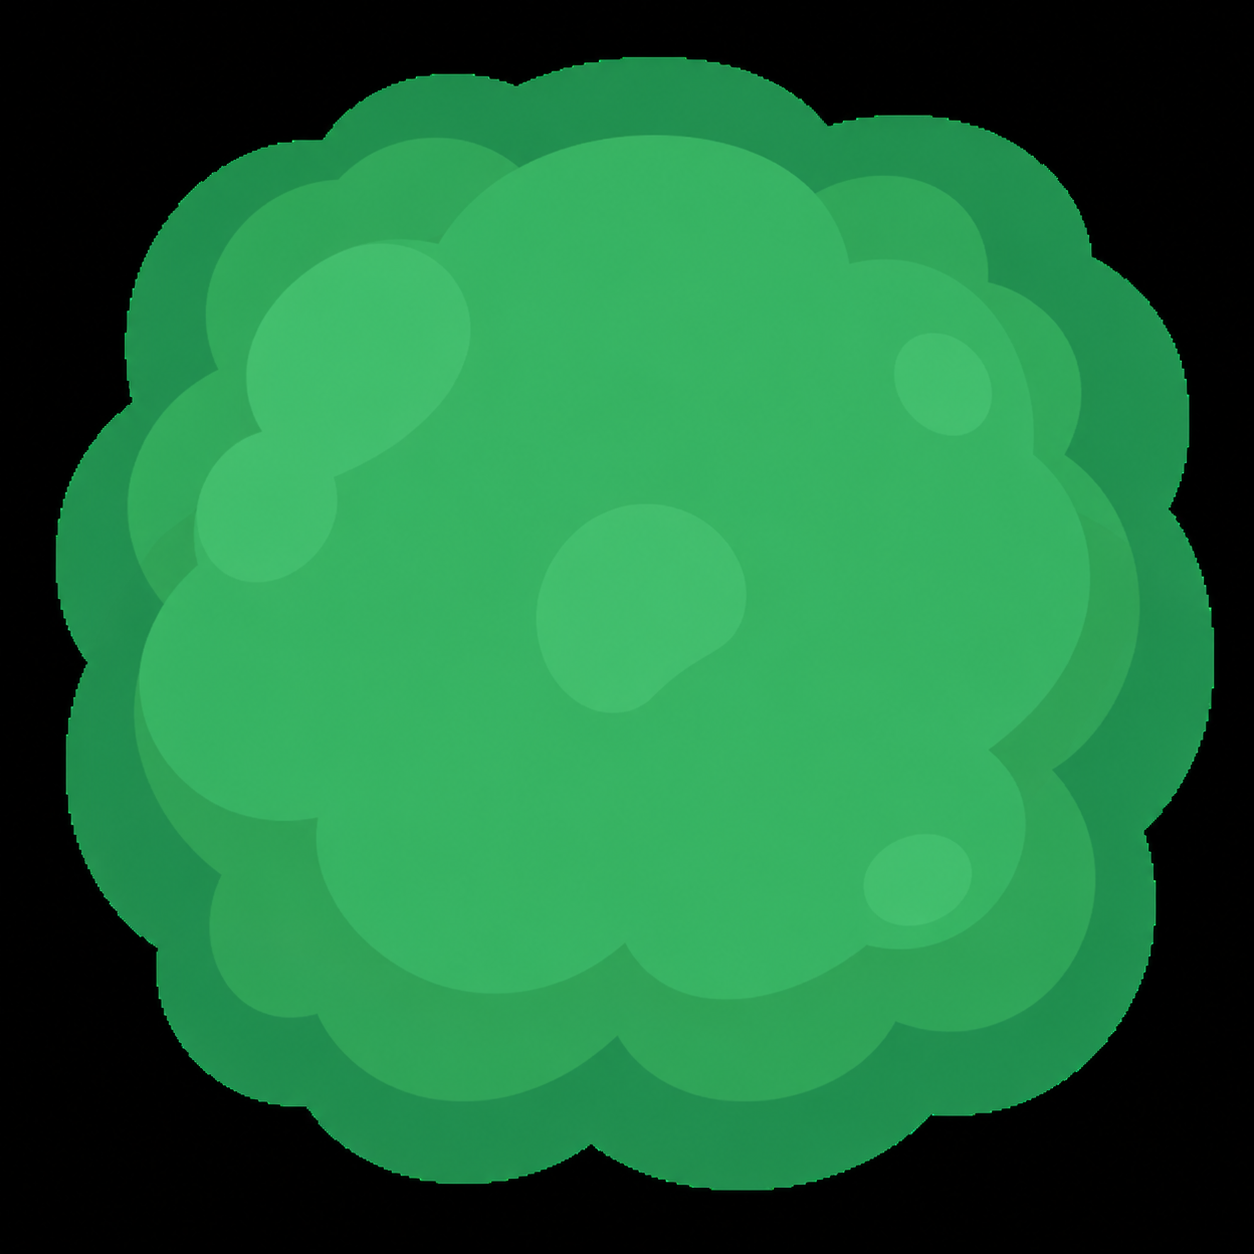
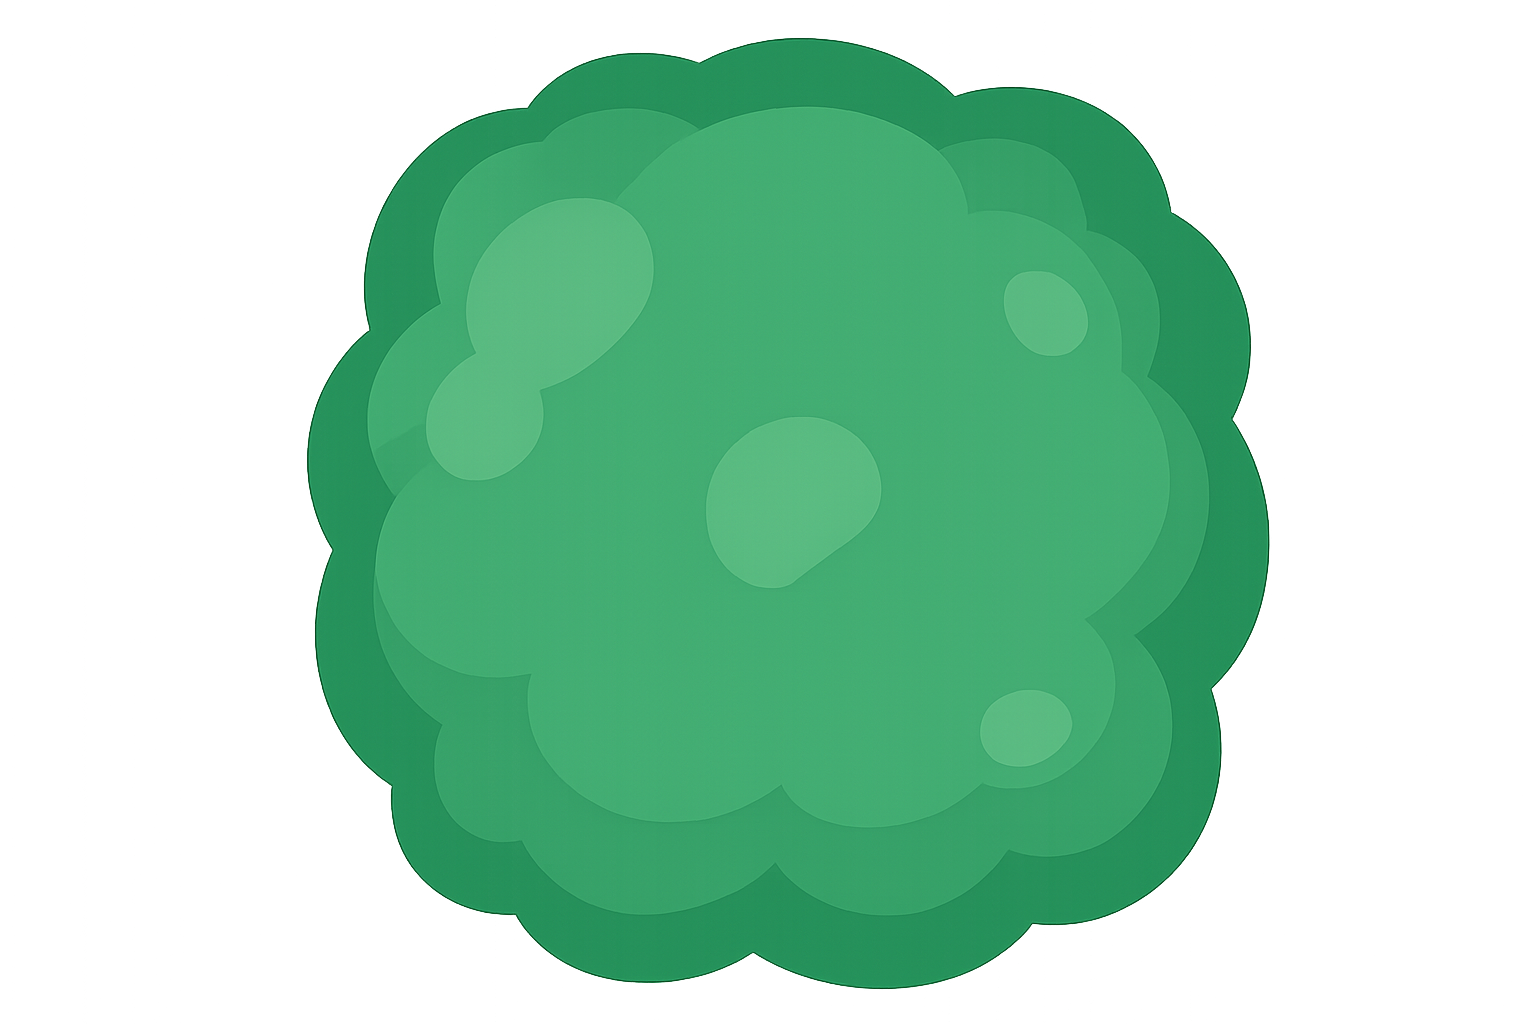
Add tree_2 variant; use pre-alpha PNGs; remove colorkey hack
- obstacle.py: add tree_2 (300×300 base); tree_1 adjusted to 220×220
  so tree_2 is visibly larger; both solid=False
- renderer.py: remove set_colorkey workaround — new PNGs already have
  proper alpha channel
- maps/map_01.json: IDs 61/63/64 → tree_2, IDs 60/62 → tree_1
- assets: update tree_1.png and add tree_2.png (pre-alpha)

diff --git a/game/renderer.py b/game/renderer.py
@@ -293,12 +293,6 @@ def _get_obstacle_sprite(kind: str, w: int, h: int) -> pygame.Surface:
         path = os.path.join("assets", "Obstacles", f"{kind}.png")
         try:
             img = pygame.image.load(path).convert_alpha()
-            # 樹類：PNG 背景為純黑（無 alpha 通道），用 colorkey 轉為透明 per-pixel alpha
-            if kind.startswith("tree"):
-                img.set_colorkey((0, 0, 0))
-                clean = pygame.Surface(img.get_size(), pygame.SRCALPHA)
-                clean.blit(img, (0, 0))
-                img = clean
             _sprite_cache[key] = pygame.transform.scale(img, (w, h))
         except Exception:
             # 找不到圖片時用純色方塊代替

diff --git a/game/obstacle.py b/game/obstacle.py
@@ -9,7 +9,9 @@ OBSTACLE_CONFIG: dict = {
     "rock_1": {"width": 80, "height": 80, "hp": 200, "shape": "circle", "destructible": True, "radius_ratio": 0.70},
     "rock_2": {"width": 80, "height": 80, "hp": 200, "shape": "circle", "destructible": True, "radius_ratio": 0.52},
     # solid=False：玩家與子彈可直接穿過；最頂層繪製；本地玩家在樹下時半透明
-    "tree_1": {"width": 240, "height": 240, "hp": 9999, "shape": "circle",
+    "tree_1": {"width": 220, "height": 220, "hp": 9999, "shape": "circle",
+               "destructible": False, "solid": False, "radius_ratio": 0.65},
+    "tree_2": {"width": 300, "height": 300, "hp": 9999, "shape": "circle",
                "destructible": False, "solid": False, "radius_ratio": 0.65},
 }
 